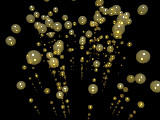
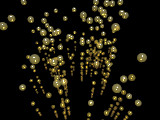
Version 4.0
Bubble expansion rate can be set.

diff --git a/bubble.html b/bubble.html
@@ -2,15 +2,20 @@
 <html lang="en">
 <head>
 <meta charset="UTF-8">
-<title>Bubble 2.0.1 User Manual | POV-Ray Object Collection</title>
+<title>Bubble 4.0 User Manual | POV-Ray Object Collection</title>
 <style>
 table
 { border-collapse:collapse;
   border:1px solid gray;
+  margin-bottom:1em;
 }
 td, th
 { border:1px solid gray;
   padding:0 0.2em;
+}
+td ul
+{ margin-top:0;
+  margin-bottom:0;
 }
 code
 { font-family:"Consolas", "Liberation Mono", monospace;
@@ -18,10 +23,12 @@ code
 </style>
 </head>
 
-<h1>Bubble 2.0.1 User Manual</h1>
+<h1>Bubble 4.0 User Manual</h1>
 
 <p>
-<img src="bubble_thumbnail.jpg" alt="[Bubble thumbnail illustration]" style="float:right">
+<a href="bubble.jpg" style="float:right">
+ <img src="bubble_thumbnail.jpg" alt="[Bubble thumbnail which links to a larger demo image]" title="Larger demo image">
+</a>
 Bubble is a library module from the
 <a href="https://www.povray.org/">Persistence of Vision Raytracer (POV-Ray)</a>
 <a href="https://lib.povray.org/">Object Collection</a>.
@@ -39,6 +46,10 @@ Bubble is a library module from the
  <li>Optimised for POV-Ray 3.6, but works with versions 3.5 through 3.8.
 </ul>
 
+<h2>Reserved Prefixes</h2>
+
+<p><code>Bubble</code>, <code>bbl</code>
+
 <h2>Macros</h2>
 
 <dl>
@@ -55,7 +66,9 @@ Bubble is a library module from the
  <tr>
   <td><code>sFluidX</code></td>
   <td>float</td>
-  <td rowspan="3"><code>&lt;sFluidX, sFluidY, sFluidZ></code> is the lower endpoint of the axis of the cylinder in which the bubbles emanate. Note that bubbles will be created within a box that circumscribes the cylinder.</td>
+  <td rowspan="3"><code>&lt;sFluidX, sFluidY, sFluidZ></code> is the lower endpoint of the axis of the cylinder in which the bubbles emanate.
+   Note that bubbles will be created within a box that circumscribes the cylinder.
+  </td>
  </tr><tr>
   <td><code>sFluidY</code></td>
   <td>float</td>
@@ -81,7 +94,9 @@ Bubble is a library module from the
  </tr><tr>
   <td><code>fHeightRngE</code></td>
   <td>float</td>
-  <td>The height at which the bubbles emanate; this should be between <code>sFluidY</code> and <code>eFluidY</code></td>
+  <td>The height at which the bubbles emanate;
+   this should be between <code>sFluidY</code> and <code>eFluidY</code>
+  </td>
  </tr><tr>
   <td><code>fBblHeightRngS</code></td>
   <td>float</td>
@@ -101,20 +116,53 @@ Bubble is a library module from the
  </tr>
 </table>
 
+<h2>Miscellaneous Identifiers</h2>
+
+<table>
+ <caption>Global Parameter</caption>
+ <tr><th>Parameter</th> <th>Type</th> <th>Description</th> <th>Default</th></tr>
+ <tr>
+  <td><code>Bubble_Rate</code></td>
+  <td>float</td>
+  <td>The expansion rate of the bubbles as they rise.
+   Use 1 for linear (the behavior of previous versions of this library);
+   use 1/3 for inverse cubed;
+   or an in-between value for bubbles that absorb additional CO<sub>2</sub> as they rise.
+  </td>
+  <td>0.45</td>
+ </tr>
+</table>
+
+<table>
+ <caption>Reference Identifier</caption>
+ <tr><th>Identifier</th> <th>Type</th> <th>Description</th> <th>Value</th></tr>
+ <tr>
+  <td><code>BUBBLE_VERSION</code></td>
+  <td>float</td>
+  <td>The bubble library version</td>
+  <td>4.0</td>
+ </tr>
+</table>
+
 <h2>About Bubble</h2>
 
 <address>
  <p>Copyright © 2009 Charles Robertson.  Some rights reserved.
  <p>Modifications copyright © 2025 Richard Callwood III.  Some rights reserved.
- <p>This library is free software: you can redistribute it and/or modify it under the terms of the <a href="https://www.gnu.org/licenses/lgpl-3.0.html" target="_blank">GNU Lesser General Public License</a> as published by the Free Software Foundation, either version 3 of the License, or (at your option) any later version.
- <p>This library is distributed in the hope that it will be useful, but WITHOUT ANY WARRANTY; without even the implied warranty of MERCHANTABILITY or FITNESS FOR A PARTICULAR PURPOSE.
+ <p>This library is free software: you can redistribute it and/or modify it under the terms of the
+ <a href="https://www.gnu.org/licenses/lgpl-3.0.html" target="_blank">GNU Lesser General Public License</a>
+ as published by the Free Software Foundation, either version 3 of the License, or (at your option) any later version.
+ <p>This library is distributed in the hope that it will be useful, but WITHOUT ANY WARRANTY;
+ without even the implied warranty of MERCHANTABILITY or FITNESS FOR A PARTICULAR PURPOSE.
 </address>
 
-<h2>A Note about This User Manual</h2>
+<h3>A Note about This User Manual</h3>
 
-<p>This user manual was not written by the original author of this library; it was composed based on the observed behavior of macro <code>Bubble_mGenerator()</code>. This has resulted in discrepancies between this manual and the comments in file <code>bubble.inc</code>.
+<p>This user manual was not written by the original author of this library;
+it was composed based on the observed behavior of macro <code>mBubbleGenerator()</code>.
+This has resulted in discrepancies between this manual and the comments in file <code>bubble.inc</code>.
 
-<h2>Change Log</h2>
+<h3>Change Log</h3>
 
 <table>
  <tr>
@@ -133,7 +181,8 @@ Bubble is a library module from the
   <td>21 May 2025</td>
   <td>
    <ul>
-    <li>Identifiers are brought into namespace compliance. In particular, macro <code>mBubbleGenerator()</code> is renamed to <code>Bubble_mGenerator()</code>.
+    <li>Identifiers are brought into namespace compliance.
+     In particular, macro <code>mBubbleGenerator()</code> is renamed to <code>Bubble_mGenerator()</code>.
     <li>Macro <code>Bubble_Generator()</code> is added for untextured bubbles.
     <li>The randomization is simplified, and a bias towards the +<var>x</var>+<var>z</var> quadrant is corrected.
    </ul>
@@ -150,11 +199,13 @@ Bubble is a library module from the
   </td>
   <td>Richard Callwood III</td>
  </tr><tr>
-  <td>2.0.1</td>
-  <td>20 October 2025</td>
+  <td>4.0</td>
+  <td>22 October 2025</td>
   <td>
    <ul>
-    <li>A correction is made to this user manual.
+    <li>The expansion rate of the bubbles can be controlled.
+    <li>Short prefix ‘<code>bbl</code>’ is introduced.
+    <li>A version identifier is added.
    </ul>
   </td>
   <td>Richard Callwood III</td>

diff --git a/README.md b/README.md
@@ -5,7 +5,7 @@
 Carbonated fluid bubble generator for the Persistence of Vision Raytracer (POV-Ray).
 
 Created by Charles Robertson, 14 July 2009;
-modified by Richard Callwood III, 2 August 2025.
+modified by Richard Callwood III, 22 October 2025.
 
 Description: Creates columns of bubbles, representing CO₂ inside a fluid.
 
